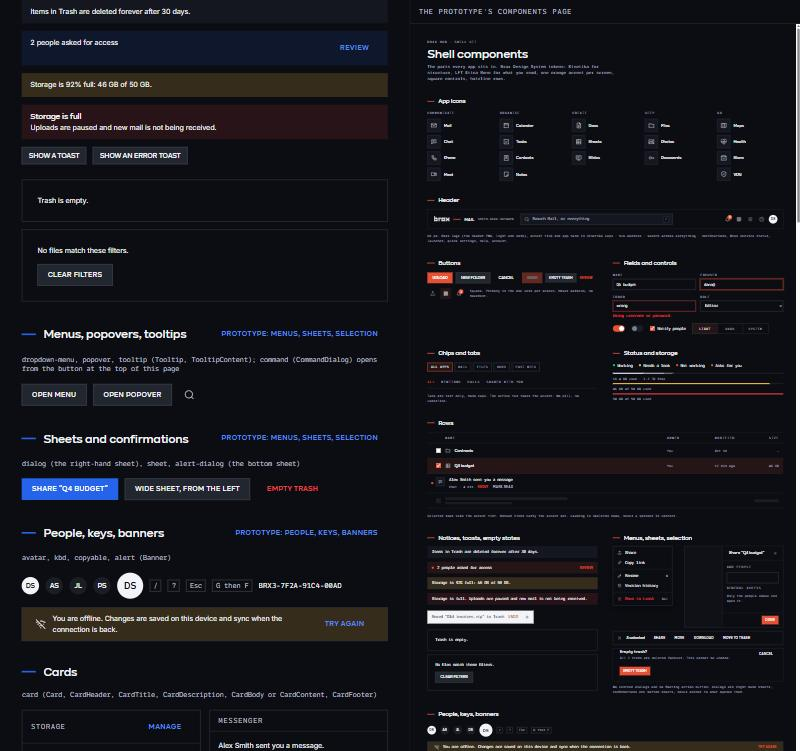
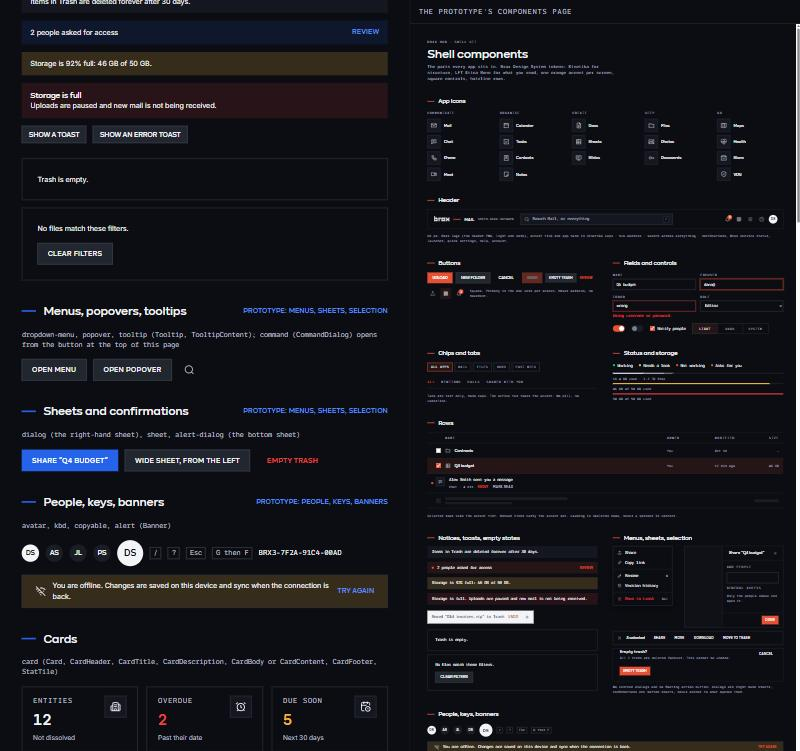
FE02: the tester's three defects: the link button, the textarea, HelpText and StatTile
1. Button variant="link" is bare text again (hub.css 114: 12px, 0.06em caps, no
   height or padding): a compoundVariants entry drops the size's height, padding
   and gap, which tailwind-merge had kept over the variant's.
2. Textarea is 88px with 10px 12px padding and vertical resize (hub.css 123):
   lib/cn.ts now declares the kit's named sizes to tailwind-merge, so h-22 beats
   fieldClass's h-control and a caller can override any part's size.
3. Entity Hub's HelpText (the meta line under a field, hub.css 198) joins
   label.tsx, and its StatTile (the start page's card, hubarea.css 13, with the
   count of admin.css 81 and the app tile square of hub.css 247) joins card.tsx;
   values.css gains the count's size and letter-spacing. Both are on parts.html
   and in test/parts.test.mjs, which now also checks parts imported by name.

Also: Skeleton loses a dead animate-pulse (the theme drops Tailwind's
animations; the prototype's .skel is still). Screenshots retaken.

Changed region(s): [[0.0, 0.0, 0.5, 1.0]]

diff --git a/ui/sample/sections.tsx b/ui/sample/sections.tsx
@@ -1,6 +1,6 @@
 /* The sections of the parts page (parts.html): one per part or group of parts, each naming the prototype section it
    is compared with. The render test (test/parts.test.mjs) renders every one to static markup without a browser. */
-import { Bell, Folder, Grid3x3, Pencil, Search, Share, Trash2, WifiOff } from "lucide-react";
+import { AlarmClock, Bell, Building2, CalendarClock, Folder, Grid3x3, Pencil, Search, Share, Trash2, WifiOff } from "lucide-react";
 import type { ComponentType } from "react";
 import {
   Alert, AlertDescription, AlertDialog, AlertDialogAction, AlertDialogCancel, AlertDialogContent, AlertDialogDescription, AlertDialogFooter, AlertDialogHeader,
@@ -8,9 +8,9 @@ import {
   Checkbox, Chip, Collapsible, CollapsibleContent, CollapsibleTrigger,
   Copyable, CountBadge, Dialog, DialogBody, DialogContent, DialogDescription, DialogFooter, DialogHeader, DialogTitle, DialogTrigger, DropdownMenu,
   DropdownMenuContent, DropdownMenuItem, DropdownMenuLabel, DropdownMenuSeparator, DropdownMenuShortcut, DropdownMenuTrigger, EmptyState, Fact, FactGrid, Field,
-  FieldError, IconButton, Input, Kbd, KeyValue, KeyValueList, Label, Link, Meter, PageHeader, Popover, PopoverContent, PopoverTrigger, Progress, ResizableGroup,
+  FieldError, HelpText, IconButton, Input, Kbd, KeyValue, KeyValueList, Label, Link, Meter, PageHeader, Popover, PopoverContent, PopoverTrigger, Progress, ResizableGroup,
   ResizableHandle, ResizablePanel, Section, Select, SelectContent, SelectItem, SelectTrigger, SelectValue, Separator, Sheet, SheetBody, SheetContent, SheetHeader,
-  SheetTitle, SheetTrigger, Skeleton, SkeletonRows, Slider, Switch, TBody, TD, TH, THead, TR, Table, TableFrame, Tabs, TabsContent, TabsList, TabsTrigger, Tag,
+  SheetTitle, SheetTrigger, Skeleton, SkeletonRows, Slider, StatTile, Switch, TBody, TD, TH, THead, TR, Table, TableFrame, Tabs, TabsContent, TabsList, TabsTrigger, Tag,
   Textarea, Toaster, Toggle, ToggleGroup, ToggleGroupItem, Tooltip, TooltipProvider, toast,
 } from "../parts/index.ts";
 
@@ -46,7 +46,7 @@ export const sections: SectionDef[] = [
   },
   {
     title: "Fields and controls",
-    parts: "input, textarea, select, label (Label, Field, FieldError), checkbox (Checkbox, CheckField), switch",
+    parts: "input, textarea, select, label (Label, Field, FieldError, HelpText), checkbox (Checkbox, CheckField), switch",
     prototype: "Fields and controls",
     render: () => (
       <div className="flex flex-col gap-4">
@@ -61,7 +61,7 @@ export const sections: SectionDef[] = [
               <SelectContent><SelectItem value="editor">Editor</SelectItem><SelectItem value="commenter">Commenter</SelectItem><SelectItem value="viewer">Viewer</SelectItem></SelectContent>
             </Select>
           </Field>
-          <Field className="col-span-2"><Label htmlFor="p-note">Note</Label><Textarea id="p-note" placeholder="What changed" /></Field>
+          <Field className="col-span-2"><Label htmlFor="p-note">Note</Label><Textarea id="p-note" placeholder="What changed" /><HelpText>The submission or receipt number the authority gave.</HelpText></Field>
         </div>
         <Row>
           <Switch defaultChecked aria-label="On" /><Switch aria-label="Off" />
@@ -236,8 +236,14 @@ export const sections: SectionDef[] = [
   },
   {
     title: "Cards",
-    parts: "card (Card, CardHeader, CardTitle, CardDescription, CardBody or CardContent, CardFooter)",
+    parts: "card (Card, CardHeader, CardTitle, CardDescription, CardBody or CardContent, CardFooter, StatTile)",
     render: () => (
+      <div className="flex flex-col gap-4">
+        <div className="grid grid-cols-3 gap-4">
+          <StatTile label="Entities" value="12" subtitle="Not dissolved" icon={<Building2 aria-hidden />} />
+          <StatTile label="Overdue" value="2" subtitle="Past their date" icon={<AlarmClock aria-hidden />} tone="risk" />
+          <StatTile label="Due soon" value="5" subtitle="Next 30 days" icon={<CalendarClock aria-hidden />} tone="warn" />
+        </div>
       <div className="grid grid-cols-2 gap-4">
         <Card>
           <CardHeader><CardTitle>Storage</CardTitle><Link>Manage</Link></CardHeader>
@@ -248,6 +254,7 @@ export const sections: SectionDef[] = [
           <CardBody>Alex Smith sent you a message.</CardBody>
           <CardFooter><Button size="sm" variant="primary">Reply</Button><Button size="sm" variant="ghost">Mark read</Button></CardFooter>
         </Card>
+      </div>
       </div>
     ),
   },

diff --git a/ui/parts/card.tsx b/ui/parts/card.tsx
@@ -29,3 +29,25 @@ export const CardContent = CardBody;
 export function CardFooter({ className, ...props }: React.ComponentProps<"footer">) {
   return <footer className={cn("flex items-center gap-3 border-t border-line px-4 py-3", className)} {...props} />;
 }
+
+/* A number tile (Entity Hub's StatTile): the start page's card (.ha-card, hubarea.css 13: hairline frame on the
+   surface, 16px 20px padding, 12px between its lines) holding a small caps label, the count in the display face
+   (.count, admin.css 81: 28px, 0.02em, tabular) and a meta note under it (.meta, hub.css 198), with the app tile
+   square for an icon on the right (.apptile, hub.css 247: 40px, hairline, bg-2). A warn or risk tone colours the
+   number, as the status labels colour their dot; never a chart. */
+const tileTones = { default: "text-ink-1", ok: "text-ok", warn: "text-warn", risk: "text-risk", accent: "text-accent-text" } as const;
+const tileAliases: Record<string, keyof typeof tileTones> = { danger: "risk", warning: "warn", success: "ok" };
+
+export function StatTile({ label, value, subtitle, icon, tone, className, ...props }: Omit<React.ComponentProps<"div">, "title"> & { label: React.ReactNode; value: React.ReactNode; subtitle?: React.ReactNode; icon?: React.ReactNode; tone?: keyof typeof tileTones | "danger" | "warning" | "success" }) {
+  const t = tone ? (tileAliases[tone] ?? (tone as keyof typeof tileTones)) : "default";
+  return (
+    <div data-slot="stat-tile" data-tone={t} className={cn("flex items-start justify-between gap-3 border border-line bg-bg px-5 py-4 text-ink-1", className)} {...props}>
+      <div className="flex min-w-0 flex-col gap-1">
+        <div className={capClass}>{label}</div>
+        <div className={cn("font-display font-strong text-count tracking-count tabular-nums", tileTones[t])}>{value}</div>
+        {subtitle ? <div className="text-small text-ink-3">{subtitle}</div> : null}
+      </div>
+      {icon ? <div className="flex size-control shrink-0 items-center justify-center border border-line bg-bg-2 text-ink-1 [&_svg]:size-icon">{icon}</div> : null}
+    </div>
+  );
+}

diff --git a/ui/lib/cn.ts b/ui/lib/cn.ts
@@ -2,14 +2,21 @@ import { clsx, type ClassValue } from "clsx";
 import { extendTailwindMerge } from "tailwind-merge";
 
 /* Merges utility classes so a part's caller can override one. The theme's own names are declared, or tailwind-merge
-   would read `text-body` as a colour and drop it beside `text-ink-3`. The names are theme.css's. */
+   would read `text-body` as a colour and drop it beside `text-ink-3`, and keep `h-control` beside `h-22`. The names
+   are theme.css's: the sizes it gives the spacing scale, the type sizes, weights, faces, tracking, corners, shadows. */
+const sizes = [
+  "control", "control-sm", "control-mid", "control-tall", "row", "row-table", "header", "rail", "sheet", "sheet-wide", "menu-min", "toast",
+  "avatar-lg", "switch-w", "switch-h", "knob", "dot", "dot-sm", "icon", "icon-sm", "icon-lg", "tick-w", "tick-h", "meter", "hairline", "skeleton",
+  "kv-label", "status-label",
+];
 const twMerge = extendTailwindMerge({
   extend: {
+    theme: { spacing: sizes },
     classGroups: {
-      "font-size": [{ text: ["tiny", "small", "body", "title", "lead", "h3", "h2-small", "h2", "h1", "h1-page", "h2-section"] }],
+      "font-size": [{ text: ["tiny", "small", "body", "title", "lead", "h3", "h2-small", "h2", "h1", "h1-page", "h2-section", "count"] }],
       "font-weight": [{ font: ["regular", "strong"] }],
       "font-family": [{ font: ["text", "mono", "display"] }],
-      tracking: [{ tracking: ["caps", "button", "link", "chip", "seg", "title", "row-title", "h3"] }],
+      tracking: [{ tracking: ["caps", "button", "link", "chip", "seg", "title", "row-title", "h3", "count"] }],
       rounded: [{ rounded: ["control", "pill"] }],
       shadow: [{ shadow: ["pop", "glow"] }],
     },

diff --git a/ui/values.css b/ui/values.css
@@ -147,6 +147,7 @@
   --type-h2: 22px;          /* hub.css 177 page title, Components section titles */
   --type-h1-page: 24px;     /* admin.css 7: the page title of Your account and Hub admin */
   --type-h2-section: 17px;  /* admin.css 11: a section title on those pages */
+  --type-count: 28px;       /* admin.css 81: a count in the display face, tabular, 0.02em */
   --type-h1: 44px;          /* Components page title */
   --leading: 1.5;           /* hub.css 70 */
   --leading-heading: 1.08;    /* Components h1 */
@@ -160,6 +161,7 @@
   --letter-title: -0.01em;  /* hub.css 75 headings */
   --letter-row-title: 0.01em; /* hub.css 197 row title */
   --letter-h3: 0.02em;      /* hub.css 215 sheet title */
+  --letter-count: 0.02em;   /* admin.css 81 */
 
   /* ---- spacing ---- */
   --space: 4px;             /* the step; every gap and padding of the prototype is a multiple of 2px, most of 4px (HUB-SHELL §2.5 "4 px spacing") */

diff --git a/ui/parts/label.tsx b/ui/parts/label.tsx
@@ -19,3 +19,9 @@ export function Field({ className, ...props }: React.ComponentProps<"div">) {
 export function FieldError({ className, ...props }: React.ComponentProps<"p">) {
   return <p role="alert" className={cn("text-body text-risk", className)} {...props} />;
 }
+
+/* The quiet line under a field that explains it: the prototype's meta text (.meta, hub.css 198: 12px, ink-3), as the
+   Components page sets it under the sheet's "General access" ("Only the people above can open it."). */
+export function HelpText({ className, ...props }: React.ComponentProps<"p">) {
+  return <p data-slot="help-text" className={cn("text-small text-ink-3", className)} {...props} />;
+}

diff --git a/ui/parts/skeleton.tsx b/ui/parts/skeleton.tsx
@@ -1,7 +1,7 @@
 import type { ComponentProps } from "react";
 import { cn } from "../lib/cn.ts";
 
-/* .skel (hub.css 86): a 10px bar on bg-3, square. Loading is skeleton rows, never a spinner in content. */
+/* .skel (hub.css 86): a 10px bar on bg-3, square and still. Loading is skeleton rows, never a spinner in content. */
 export function Skeleton({ className, ...props }: ComponentProps<"div">) {
-  return <div aria-hidden data-slot="skeleton" className={cn("block h-skeleton animate-pulse bg-bg-3", className)} {...props} />;
+  return <div aria-hidden data-slot="skeleton" className={cn("block h-skeleton bg-bg-3", className)} {...props} />;
 }

diff --git a/ui/theme.css b/ui/theme.css
@@ -79,6 +79,7 @@
   --text-h1--line-height: var(--leading-heading);
   --text-h1-page: var(--type-h1-page);
   --text-h2-section: var(--type-h2-section);
+  --text-count: var(--type-count);
   --leading-body: var(--leading);
   --leading-heading: var(--leading-heading);
 
@@ -91,6 +92,7 @@
   --tracking-title: var(--letter-title);
   --tracking-row-title: var(--letter-row-title);
   --tracking-h3: var(--letter-h3);
+  --tracking-count: var(--letter-count);
 
   /* spacing: p-4 is four steps (16px); the named sizes give h-control, w-rail, size-dot … */
   --spacing: var(--space);

diff --git a/ui/parts/button.tsx b/ui/parts/button.tsx
@@ -31,6 +31,10 @@ export const buttonVariants = cva(
         "icon-sm": "size-control-sm px-0 text-small",
       },
     },
+    compoundVariants: [
+      // the link is bare text (hub.css 114): no height, padding or gap whatever the size says
+      { variant: "link", className: "h-auto gap-0 px-0 text-small" },
+    ],
     defaultVariants: { variant: "secondary", size: "md" },
   },
 );
